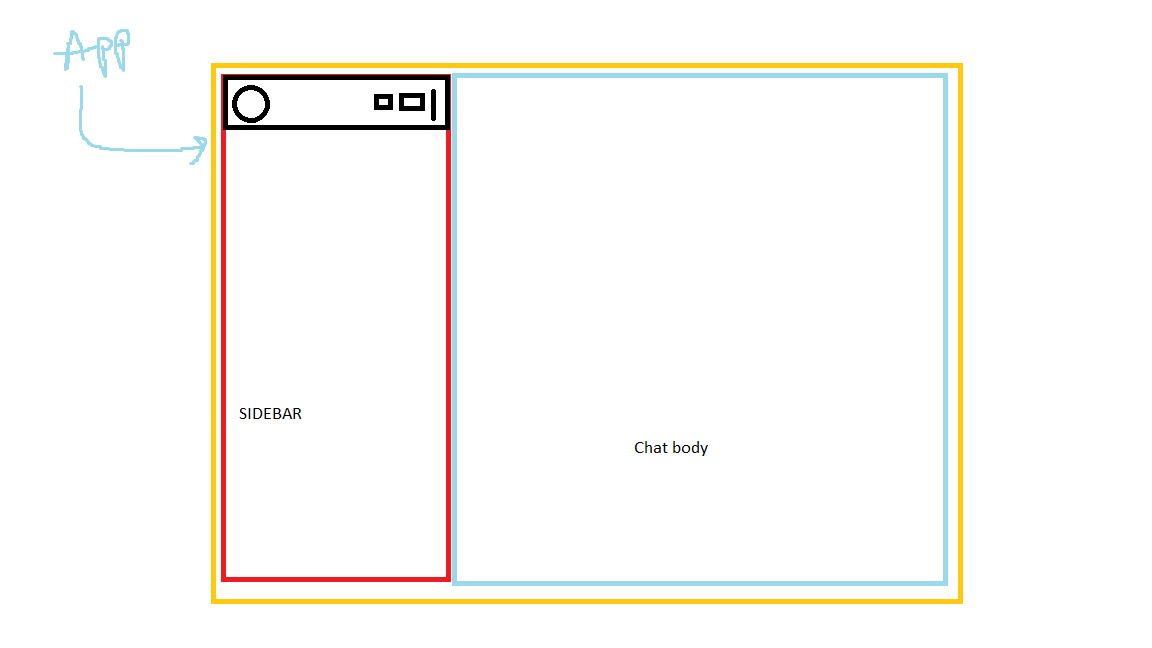
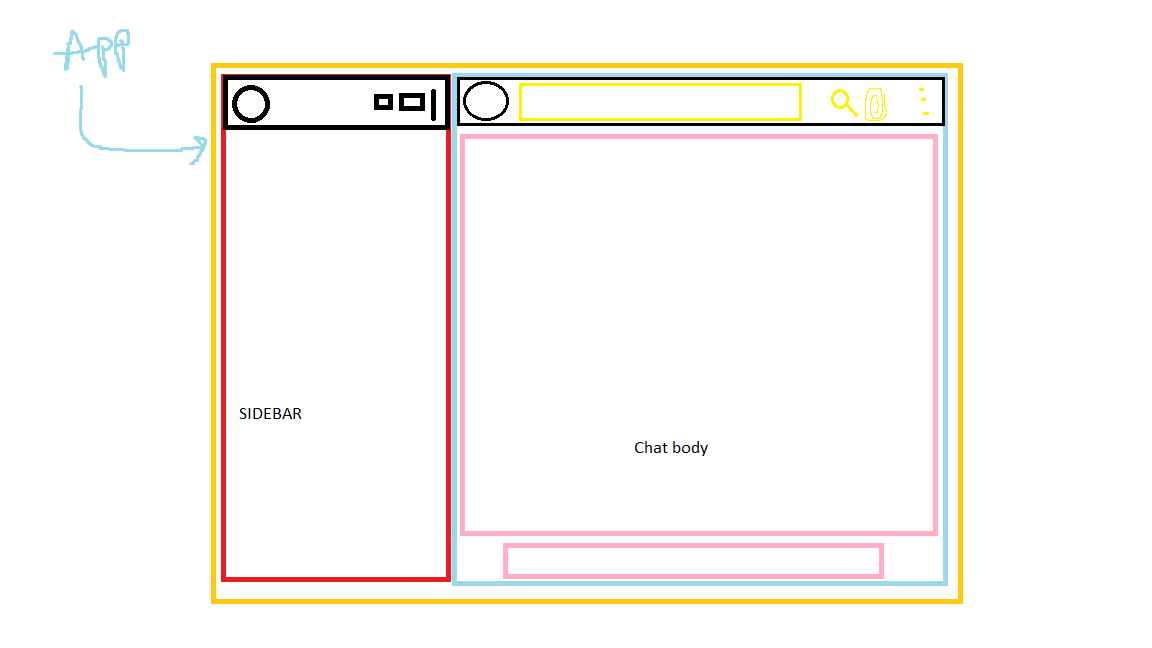
chat header added

Changed region(s): [[0.375, 0.0926, 0.8125, 0.8951]]

diff --git a/src/components/Chat/Chat.js b/src/components/Chat/Chat.js
@@ -1,9 +1,28 @@
+import { AttachFile, MoreVert, SearchOutlined } from "@mui/icons-material";
+import { Avatar, IconButton } from "@mui/material";
 import React from "react";
 import "./chat.css";
 const Chat = () => {
   return (
     <div className="chat">
-      <h1>I am the chat</h1>
+      <div className="chat__header">
+        <Avatar />
+        <div className="chat__headerInfo">
+          <h3>Room Name</h3>
+          <p>Last seen at ...</p>
+        </div>
+        <div className="chat__headerRight">
+          <IconButton>
+            <SearchOutlined style={{ color: "#aebac1" }} />
+          </IconButton>
+          <IconButton>
+            <AttachFile style={{ color: "#aebac1" }} />
+          </IconButton>
+          <IconButton>
+            <MoreVert style={{ color: "#aebac1" }} />
+          </IconButton>
+        </div>
+      </div>
     </div>
   );
 };

diff --git a/src/components/Sidebar/Sidebar.js b/src/components/Sidebar/Sidebar.js
@@ -16,13 +16,13 @@ const Sidebar = () => {
         />
         <div className="sidebar__headerRight">
           <IconButton>
-            <DonutLarge style={{ fontSize: "20px" }} />
+            <DonutLarge style={{ fontSize: "20px", color: "#aebac1" }} />
           </IconButton>
           <IconButton>
-            <Chat style={{ fontSize: "20px" }} />
+            <Chat style={{ fontSize: "20px", color: "#aebac1" }} />
           </IconButton>
           <IconButton>
-            <MoreVertIcon style={{ fontSize: "20x" }} />
+            <MoreVertIcon style={{ fontSize: "20x", color: "#aebac1" }} />
           </IconButton>
         </div>
       </div>

diff --git a/src/components/Sidebar/sidebar.css b/src/components/Sidebar/sidebar.css
@@ -8,8 +8,9 @@
   background-color: #202c33;
   display: flex;
   justify-content: space-between;
-  padding: 16px;
-  border-right: 1px solid lightgrey;
+  padding: 10px 16px;
+  width: 100%;
+  height: 59px;
 }
 
 .sidebar__headerRight {
@@ -57,7 +58,19 @@ textarea {
   color: #ffffff;
 }
 
-.sidebar__chat {
+.sidebar__chats {
   flex: 1;
-  overflow: scroll;
+  background-color: #111b21;
+  overflow-y: hidden;
+}
+.sidebar__chats:hover {
+  overflow-y: scroll;
+}
+.sidebar__chats::-webkit-scrollbar {
+  width: 0.5vw;
+
+  background-color: #111b21;
+}
+.sidebar__chats::-webkit-scrollbar-thumb {
+  background-color: #8696a0;
 }

diff --git a/src/components/Chat/chat.css b/src/components/Chat/chat.css
@@ -3,3 +3,19 @@
   flex-direction: column;
   flex: 0.65;
 }
+.chat__header {
+  display: flex;
+  background-color: #202c33;
+  padding: 10px 16px;
+  width: 100%;
+  height: 59px;
+  align-items: center;
+
+  border-left: 1px solid rgba(134, 150, 160, 0.15);
+}
+
+.chat__headerInfo {
+  flex: 1;
+  padding-left: 20px;
+}
+

diff --git a/src/components/Sidebar/SidebarChat/SidebarChat.js b/src/components/Sidebar/SidebarChat/SidebarChat.js
@@ -7,7 +7,7 @@ const SidebarChat = () => {
       <Avatar />
       <div className="sidebarChat__info">
         <h2>Room Name</h2>
-        <p>This is Last message</p>
+        <p>This is the Last message</p>
       </div>
     </div>
   );

diff --git a/src/components/Sidebar/SidebarChat/sidebarChat.css b/src/components/Sidebar/SidebarChat/sidebarChat.css
@@ -11,6 +11,14 @@
 }
 
 .sidebarChat__info > h2 {
-  font-style: 16px;
+  color: #e9edef;
+  font-size: 16px;
   margin-bottom: 8px;
+}
+.sidebarChat__info > p {
+  color: #8696a0;
+}
+
+.sidebarChat__info {
+  margin-left: 15px;
 }
